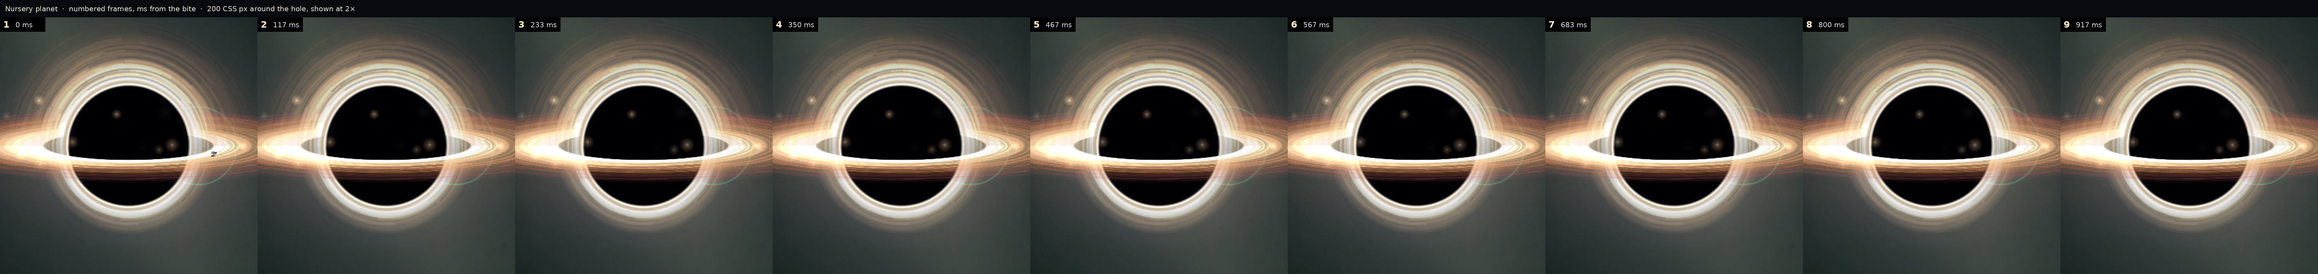
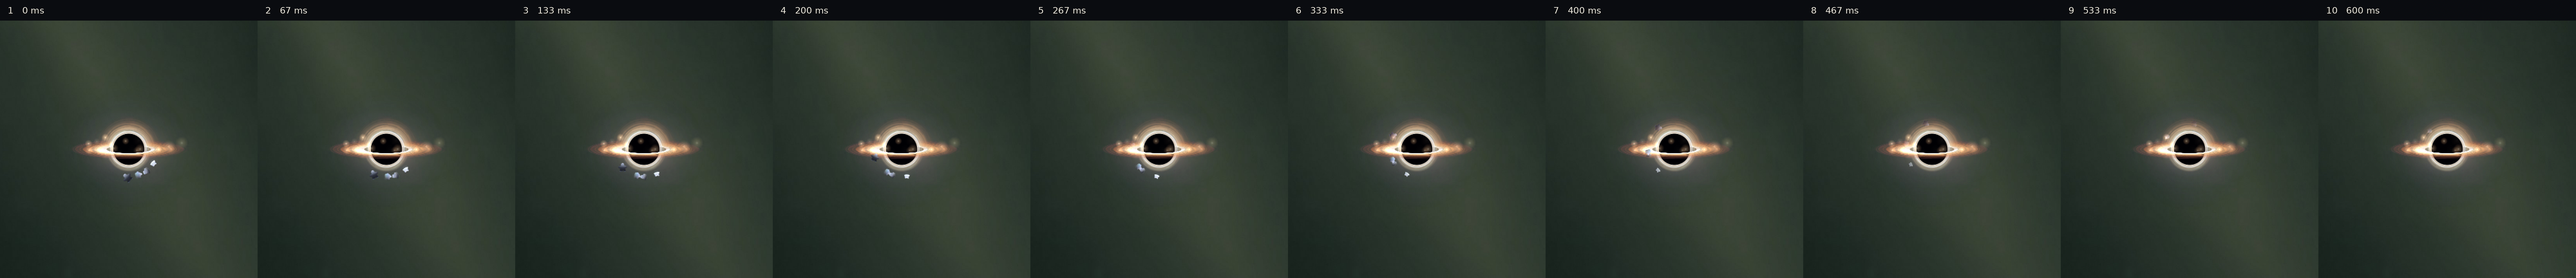
v9.7: show eaten shards on the rim, not inside the shadow.
A real bite starts inside the painted shadow, so the pieces were skipped.
They now hop to the item's angle just outside that edge, orbit with the
disk for half to three-quarters of a turn, and fade as they meet it.

diff --git a/js/core/DebrisField.js b/js/core/DebrisField.js
@@ -1,23 +1,27 @@
 // ─── DebrisField ───
 // One job: the bits of whatever was just eaten. They exist only during a bite.
 // Each piece is that item's own sprite, cut by a painted shard mask (an image
-// asset, composited once and cached). They start where the item was, spiral
-// in, shrink, and fade out before their footprint crosses the painted shadow.
-// Nothing is drawn over the black centre. Idle means no canvas calls.
+// asset, composited once and cached). A bite starts inside the painted shadow,
+// so the pieces hop out to the rim (the item's angle, just past shadowRadius)
+// and ride that rim in the disk's direction for about half to three-quarters
+// of a turn. They tighten, shrink and fade, and alpha is 0 as the footprint
+// meets the shadow. Nothing is drawn over the black centre. Idle means no
+// canvas calls.
 //
-// If the masks have not loaded, or the item is already inside the shadow
-// (no room to travel), one piece is the whole sprite: it shrinks and fades
-// in place. Still only that image. No code-drawn stand-in.
+// If the masks have not loaded, one piece is the whole sprite on that same
+// rim. Still only that image. No code-drawn stand-in, no light streaks.
 
 import { spriteFor } from "../art.js";
 import { shadowRadius } from "../art/hole.js";
 
 const CAP = 18;
 const PER_BITE = 4;
-const LIFE_MIN = 36;   // 0.6 s at 60 Hz
+const LIFE_MIN = 42;   // 0.7 s at 60 Hz
 const LIFE_MAX = 60;   // 1.0 s
-const SPIN = 0.028;
-const SPIN_STILL = 0.01;
+// Canvas y grows downward, so atan2 increases clockwise, which is also the
+// way drawDisk's positive rotation carries the disk.
+const TURN_MIN = Math.PI;        // half a turn
+const TURN_MAX = Math.PI * 1.5;  // three quarters
 const MASKS = [1, 2, 3, 4].map(n => "assets/fx/shard_mask_" + n + ".png");
 
 const shardCache = new WeakMap();
@@ -41,7 +45,8 @@ export class DebrisField {
     for (let i = 0; i < CAP; i++) {
       this.pieces[i] = {
         on: false, age: 0, life: LIFE_MIN, ang: 0, rad: 0, r0: 0,
-        core: 1, dir: 1, spin0: 0, spr: null, dw: 0
+        travel: TURN_MIN, slack0: 1, spin0: 0, spr: null, dw: 0, dh: 0,
+        visAlpha: 0, whole: false
       };
     }
     this.live = 0;
@@ -148,57 +153,85 @@ export class DebrisField {
     return oldest;
   }
 
-  _arm(p, e, dx, dy, still, whole) {
-    const state = this.state;
-    const dist = Math.hypot(dx, dy);
+  /**
+   * Park one piece on the rim at `ang`. The centre sits just outside the
+   * painted shadow by about half the shard (its corner reach) plus a short
+   * gap, so a bite that started inside the shadow still shows.
+   */
+  _arm(p, ang, dw, dh, still, shadowR, whole) {
+    const zoom = this.state.zoom > 0 ? this.state.zoom : 1;
+    const px = 1 / (zoom * (this.dpr || 1));
+    const reach = 0.71 * dw;
     p.on = true;
     p.age = 0;
     p.life = still ? LIFE_MIN : LIFE_MIN + Math.floor(Math.random() * (LIFE_MAX - LIFE_MIN + 1));
-    p.ang = Math.atan2(dy, dx);
-    p.core = state.radius;
-    p.r0 = dist;
-    p.rad = dist;
+    p.ang = ang;
+    p.spin0 = ang;
     p.whole = whole;
-    p.dir = 1;
-    p.spin0 = p.ang;
-    p.dw = e.radius * 2;
-    p.dh = e.radius * 2;
+    p.dw = dw;
+    p.dh = dh;
+    // Just outside the shadow: the corner reach, plus a hair so the first
+    // frame is not already touching. That hair is the gap they close.
+    const hop = Math.max(reach * 0.12, 2 * px);
+    p.r0 = shadowR + reach + hop;
+    p.rad = p.r0;
+    p.slack0 = Math.max(px, hop);
+    p.travel = (still ? TURN_MIN * 0.45 : TURN_MIN);
+    p.visAlpha = 0;
+    p.spr = null;
     this.live++;
     this.spawned++;
   }
 
-  /** Start pieces at the eaten item. The entity can go. */
+  /** Where the piece is, and how strongly it draws, for the current age. */
+  _pose(p, still) {
+    const t = p.life > 0 ? Math.min(1, p.age / p.life) : 1;
+    const sc = 1 - 0.46 * t;
+    const shadowR = shadowRadius(this.state.radius, this.state.gulp, still);
+    const radial = 0.71 * p.dw * sc;
+    const touch = shadowR + radial;
+    const remain = (1 - t) * (1 - 0.2 * t);
+    const rad = touch + (p.r0 - touch) * remain;
+    const slack = rad - shadowR - radial;
+    const ageFade = t < 0.4 ? 1 : Math.pow((1 - t) / 0.6, 0.85);
+    const zoom = this.state.zoom > 0 ? this.state.zoom : 1;
+    const pad = 1.25 / (zoom * (this.dpr || 1));
+    const alpha = slack <= pad ? 0 : Math.min(1, slack / p.slack0) * ageFade;
+    return { sc, rad, alpha, radial };
+  }
+
+  /** Start pieces on the rim at the eaten item's angle. The entity can go. */
   spawn(e) {
     const state = this.state;
-    const px = Math.max(8, e.radius * (state.zoom || 1) * (this.dpr || 1));
+    const zoom = state.zoom > 0 ? state.zoom : 1;
+    const px = Math.max(8, e.radius * zoom * (this.dpr || 1));
     const sp = spriteFor(e, px);
     const canvas = sp.c;
     if (!canvas || !canvas.width) return;
-    const dx = e.x - state.playerX;
-    const dy = e.y - state.playerY;
+    const base = Math.atan2(e.y - state.playerY, e.x - state.playerX);
     const still = !!(state.settings && state.settings.reduceMotion);
     const shadowR = shadowRadius(state.radius, state.gulp, still);
-    // Room outside the painted shadow. Zero means the whole item is already inside it.
-    const span = Math.hypot(dx, dy) + e.radius - shadowR;
-    if (!this.masksReady || span <= 0) {
+    const item = Math.max(1, e.radius * 2);
+    const minW = 6 / zoom;
+    if (!this.masksReady) {
+      const dw = Math.max(minW, item * 0.34);
       const p = this._free();
-      this._arm(p, e, dx, dy, still, true);
+      this._arm(p, base, dw, dw, still, shadowR, true);
       p.spr = canvas;
-      p.dir = 1;
       return;
     }
     const shards = this._shards(canvas);
     for (let i = 0; i < PER_BITE; i++) {
       const sh = shards[i];
-      const ox = sh.ox * e.radius * 2;
-      const oy = sh.oy * e.radius * 2;
+      const frac = 0.25 + 0.15 * (i / (PER_BITE - 1));
+      const dw = Math.max(minW, item * frac);
+      const dh = dw * (sh.canvas.height / Math.max(1, sh.canvas.width));
       const p = this._free();
-      this._arm(p, e, dx + ox, dy + oy, still, false);
+      // A short fan at the item's angle, wide enough that four pieces read apart.
+      this._arm(p, base + (i - 1.5) * 0.36, dw, dh, still, shadowR, false);
       p.spr = sh.canvas;
-      p.dw = e.radius * 2 * sh.fw;
-      p.dh = e.radius * 2 * sh.fh;
-      p.dir = i % 2 === 0 ? 1 : -1;
-      p.spin0 = p.ang;
+      const u = i / (PER_BITE - 1);
+      p.travel = still ? TURN_MIN * 0.45 : TURN_MIN + (TURN_MAX - TURN_MIN) * u;
     }
   }
 
@@ -213,7 +246,6 @@ export class DebrisField {
 
   update(dt, still) {
     if (dt <= 0 || this.live <= 0) return;
-    const spin = still ? SPIN_STILL : SPIN;
     for (let i = 0; i < CAP; i++) {
       const p = this.pieces[i];
       if (!p.on) continue;
@@ -221,16 +253,13 @@ export class DebrisField {
       if (p.age >= p.life) {
         p.on = false;
         p.spr = null;
+        p.visAlpha = 0;
         this.live--;
         this.finished++;
         continue;
       }
-      const k = 1 - p.age / p.life;
-      const shadowR = shadowRadius(this.state.radius, this.state.gulp, still);
-      const span = p.r0 - shadowR;
-      // No room to travel: hold the start distance and let draw shrink the sprite.
-      p.rad = span <= 0 ? p.r0 : shadowR + span * k * k;
-      p.ang += spin * p.dir * dt;
+      p.ang += (p.travel / p.life) * dt;
+      p.rad = this._pose(p, still).rad;
     }
   }
 
@@ -240,34 +269,29 @@ export class DebrisField {
    */
   draw(ctx, hx, hy, side) {
     if (this.live <= 0) return;
+    const still = !!(this.state.settings && this.state.settings.reduceMotion);
+    // The far half is drawn first. Clear last frame's alphas once per frame.
+    if (side === -1) {
+      for (let i = 0; i < CAP; i++) this.pieces[i].visAlpha = 0;
+    }
     for (let i = 0; i < CAP; i++) {
       const p = this.pieces[i];
       if (!p.on || !p.spr) continue;
       const below = Math.sin(p.ang) >= 0 ? 1 : -1;
       if (below !== side) continue;
-      const t = p.age / p.life;
-      const lifeFade = p.whole ? (1 - t) : (t < 0.8 ? 1 : (1 - t) / 0.2);
-      let sc = p.whole ? Math.max(0.05, 1 - t) : 0.35 + 0.65 * (1 - t);
-      const shadowR = shadowRadius(this.state.radius, this.state.gulp, !!(this.state.settings && this.state.settings.reduceMotion));
-      // Whole footprint, including a rotated corner (0.71 of the drawn width).
-      // Alpha is 0 when rad - shadowR <= 0.71*dw*sc. If the piece is still
-      // outside the shadow, shrink it until that is true rather than covering the core.
-      const room = p.rad - shadowR;
-      if (room <= 0) continue;
-      const maxSc = room / (0.71 * p.dw);
-      if (maxSc < 0.08) continue;
-      if (sc > maxSc * 0.96) sc = maxSc * 0.96;
-      if (p.rad - shadowR <= 0.71 * p.dw * sc) continue;
-      const edgeFade = Math.min(1, room / (shadowR * 0.16));
-      const alpha = edgeFade * lifeFade;
-      if (alpha <= 0.02) continue;
-      const x = hx + Math.cos(p.ang) * p.rad;
-      const y = hy + Math.sin(p.ang) * p.rad;
-      const dw = p.dw * sc;
-      const dh = (p.dh || p.dw) * sc;
+      const pose = this._pose(p, still);
+      p.rad = pose.rad;
+      if (pose.alpha <= 0.02) continue;
+      if (pose.rad - shadowRadius(this.state.radius, this.state.gulp, still) <= pose.radial) continue;
+      const x = hx + Math.cos(p.ang) * pose.rad;
+      const y = hy + Math.sin(p.ang) * pose.rad;
+      const dw = p.dw * pose.sc;
+      const dh = (p.dh || p.dw) * pose.sc;
+      p.visAlpha = pose.alpha;
       this.draws++;
       ctx.save();
-      ctx.globalAlpha = alpha;
+      ctx.globalCompositeOperation = "source-over";
+      ctx.globalAlpha = pose.alpha;
       ctx.translate(x, y);
       ctx.rotate(p.ang - p.spin0);
       ctx.drawImage(p.spr, -dw / 2, -dh / 2, dw, dh);

diff --git a/DESIGN.md b/DESIGN.md
@@ -107,7 +107,7 @@ Live: https://awsumbtech.github.io/blackhole_game/ (GitHub Pages, built from `ma
 
 - **v9.7 Sky and a hole that only sheds debris while it eats.**
   - **The hole** is the pre-v9.7 painting again (`js/art/hole.js`): the same disk, photon edge and lensed arc, in play and in Zen. The circling grain cloud (`Inflow` `nIn`) is the one thing removed. Rising motes and the impact burst stay.
-  - **DebrisField** (`js/core/DebrisField.js`): only while a bite is in flight. Four soft shards, each the eaten item's own sprite through the painted `assets/fx/shard_mask_{1..4}.png`, composited once, cropped to the mask, and cached. They start where the item was. A shard's whole footprint must stay outside `shadowRadius` (the painted shadow in `hole.js`). It shrinks and fades as it reaches that rim, and is not drawn once it would touch the black centre. About 0.6–1.0 s. If the masks have not loaded, or the item is already inside the shadow, one piece is the whole sprite shrinking and fading, still that image only. Idle draws nothing. Cap 18. `clear()` on galaxy init, which covers Zen and collapse.
+  - **DebrisField** (`js/core/DebrisField.js`): only while a bite is in flight. Four soft shards, each the eaten item's own sprite through the painted `assets/fx/shard_mask_{1..4}.png`, composited once, cropped to the mask, and cached. A bite happens inside the painted shadow, so the shards are placed at the item's angle on the rim, just outside `shadowRadius` (about half a shard past it). They orbit with the disk for about half to three-quarters of a turn over 0.7–1.0 s, tightening, shrinking and fading. Alpha is 0 as the footprint meets the shadow, and nothing is drawn on the black centre. Each shard starts at about 0.25–0.4 of the eaten item, and at least about 6 CSS px. If the masks have not loaded, one piece is the whole sprite on that same rim, still that image only. Idle draws nothing. Cap 18. `clear()` on galaxy init, which covers Zen and collapse.
   - **Backdrop** (`js/core/Backdrop.js`): one JPG per biome (`assets/backdrop_<key>.jpg`, keys in `KEYS` in that file). Drawn once per frame, cover-fit, no parallax. The old coded sky painter and the four-layer mote backdrop were deleted in v9.7.
   - **GoldenVeil** (`js/core/GoldenVeil.js`): `assets/sky/golden_veil.jpg`, a full-frame warm haze, over the backdrop with `screen` at 0.35, only when the galaxy is golden. Missing file: no-op.
 - **v9.5 Inflow (`js/core/Inflow.js`).** Brian liked a live-event visual (strong glow on bright things over a flat saturated background, particles lifting off the main object, a burst where a bass hit and the visuals land together, fast particles stretched into streaks). Adapted to the calm rules:
@@ -441,7 +441,7 @@ Measured for v7.2 at Galaxy 5 (Void Rift, depth 5), 412×915 at DPR 2, headless 
 - **v9.5 Inflow:** event-driven light around the hole (`js/core/Inflow.js`, §3): spiralling accretion inflow with speed-stretched streaks, rising motes, and a radial streak burst + warm bloom on tier-up / big swallow, synced to a new low soft swell (§7d exception). Pooled, allocation-free, quality-scaled, still under Reduce Motion.
 - **v9.5.2 Touch pass:** 44 px bar controls and a 44 px volume touch area, Restart moved to the far right with a calm confirm, larger GALAXY/SCALE labels, settings toggles 44 px (and the Breathing guide "Off" no longer clipped). New `HudControls` class (§4b).
 - **v9.6 Flagship:** the Ruined Armada Flagship is redrawn as a detailed hi-res capital wreck (`js/core/Flagship.js`, §3), painted once into a cached sprite over ~30 frames, then a single blit. Frame cost unchanged (~0.9 ms high quality).
-- **v9.7 Calm skies + feeding (Nov 11 2026):** every galaxy uses a painted backdrop (`assets/backdrop_<key>.jpg`, keys in `Backdrop.js`) owned by `Backdrop`. No parallax: the portraits are composed full-frame, and sliding them would crop the dust lane. The old coded sky painter and the four-layer mote backdrop were deleted. Orbit scribbles, stacked cradle rings, meadow specks and aurora curtains are quieted or gone. Round 2: `DENSITY` is 24 regular / 29 breather (was 44 / 52) and cradle worlds are 10 (was 18). Bites pay that back (gain 1.12, default ceiling 3, Nursery and Meadow ceilings 1.67, food ~20% wider). A 48s drift on all 7 is the check. Reef's own ceiling is 2.45 and its gain is 0.66 after it ran ~20% fast. Forge's own ceiling is 2.3 and its gain is 0.54 after it ran ~35% fast. Comet stays near the old pace. Armada progress is 0.82×; only its time to 1.35× matches, and it stays the slow wall. The hole is the pre-v9.7 disk again. The circling grain cloud is off (`nIn` is 0); motes and the impact burst stay. `DebrisField` replaces `AccretionRing` and `Absorption`: four slices of the eaten sprite, then nothing. SAVE_VERSION stays 9.
+- **v9.7 Calm skies + feeding (Nov 11 2026):** every galaxy uses a painted backdrop (`assets/backdrop_<key>.jpg`, keys in `Backdrop.js`) owned by `Backdrop`. No parallax: the portraits are composed full-frame, and sliding them would crop the dust lane. The old coded sky painter and the four-layer mote backdrop were deleted. Orbit scribbles, stacked cradle rings, meadow specks and aurora curtains are quieted or gone. Round 2: `DENSITY` is 24 regular / 29 breather (was 44 / 52) and cradle worlds are 10 (was 18). Bites pay that back (gain 1.12, default ceiling 3, Nursery and Meadow ceilings 1.67, food ~20% wider). A 48s drift on all 7 is the check. Reef's own ceiling is 2.45 and its gain is 0.66 after it ran ~20% fast. Forge's own ceiling is 2.3 and its gain is 0.54 after it ran ~35% fast. Comet stays near the old pace. Armada progress is 0.82×; only its time to 1.35× matches, and it stays the slow wall. The hole is the pre-v9.7 disk again. The circling grain cloud is off (`nIn` is 0); motes and the impact burst stay. `DebrisField` replaces `AccretionRing` and `Absorption`: four slices of the eaten sprite ride the rim for a fraction of a turn, then nothing. SAVE_VERSION stays 9.
 - **v9.6.1 Core split (live Nov 4 2026):** code structure only, zero gameplay/visual/audio/save change (SAVE_VERSION 9). game.js (1.8k lines) split into single-job systems in `js/core/` (GameLoop, Scene, ScreenFlow, ZenSession, CollapseFlow, PlayControls, Feeding, Player, RunTracker, Galaxy, Hud, ScreenOverlay, PerfMonitor, Settings, Menus, Lifecycle, GameState, Display) wired through one `game` object; art.js split by kind of object into `js/art/` behind a thin index; world, object and biome definitions moved to `js/data/`. Checked with a seeded, fake-clock dev sweep (pixel diff vs main), perf bench and save migration compare.
 - **v9.5.1 No Zen ring:** the breathing-guide ring (shown in Zen before the wisp was unlocked) and the magnet ring are never drawn in Zen. Brian's rule: no ring around the hole in Zen.
 - **v9.2 Growth Witness:** the wisp is an unlock (Companion, Appetite tier 1, 5 DM, after first collapse) and a `Wisp` class with `setSkin`/`setAnim` hooks for later looks. It glows and widens its orbit on tier-up/merge, gives one post-merge hint toward new-scale food, twirls on big catches/finds, breathes beside you in Zen. Random food tours removed. Hungry Wisp needs Companion. SAVE_VERSION 9 grants Companion to anyone who had collapsed or owned Hungry Wisp. Zen without the wisp shows the breath ring.

diff --git a/CHANGELOG.md b/CHANGELOG.md
@@ -7,7 +7,7 @@ All notable changes to Black Hole: Galaxy Eater. Saves carry forward through eve
 The galaxies were too busy. Brian liked the hole the way it was. The only thing wrong with it was the grain cloud that circled it all the time.
 
 - **The hole.** It is drawn exactly as it was before this version, in play and in Zen: the same disk, the same edge, the same order. `AccretionRing` and `Absorption` are gone, and so are their images.
-- **Debris.** The circling grain stream (`Inflow`, `nIn`) is off. `DebrisField` exists only during a bite: four slices of the eaten item's own sprite spiral in, shrink and fade over about 0.6–1.0 s, then nothing is left. While nothing is being eaten it does not draw. A big catch and a tier-up still get the short warm burst. The rising motes stay.
+- **Debris.** The circling grain stream (`Inflow`, `nIn`) is off. `DebrisField` exists only during a bite: four slices of the eaten item's own sprite appear at that item's angle, just outside the black rim, and orbit with the disk for about half to three-quarters of a turn. They shrink and fade over 0.7–1.0 s and are gone before they touch the shadow. While nothing is being eaten it does not draw. A big catch and a tier-up still get the short warm burst. The rising motes stay.
 - **Skies.** Each galaxy draws its painted backdrop (`assets/backdrop_<key>.jpg`). The picture does not scroll. The old coded nebula, star specks and parallax dust are not drawn. A golden galaxy also lays `assets/sky/golden_veil.jpg` over that sky, a full-frame warm haze (`screen` at 0.35).
 - **Round 2.** About 45% fewer morsels in view (`DENSITY` 44→24, breathers 52→29; cradle worlds 18→10, reef rocks and meadow buds cut the same way). Each bite is worth that back: food is about 20% wider, gain is 1.12, the usual ceiling is 3 (was 2), and Nursery and Meadow ceilings are 1.67 so those breathers do not stall. A 48s greedy drift on all 7 galaxies is the check. Reef had run about 20% fast, so its gain is 0.66 and its ceiling is 2.45 (now about 0.90× mass and 0.92× progress). Forge had run about 35% fast on the shared ceiling, so its gain is 0.54 and its own ceiling is 2.3 (remeasured at about 1.09× mass and 1.12× progress). Comet stays near the old pace. Armada's progress is 0.82× the old run; only its time to 1.35× mass matches (26.0s before, 25.8s after). It stays the slow wall. The cradle sun has no extra halo and is drawn smaller. Comet rivers are one thin ribbon. The aurora and the pulsar beams stay readable and quiet, and a beam no longer glows the hole. Depth haze is two sparse layers. The combo is one dim `×` line; the mass bonus is unchanged and no longer written out.
 - Saves are unchanged (SAVE_VERSION 9). Cache name is `blackhole-v9.7`.
